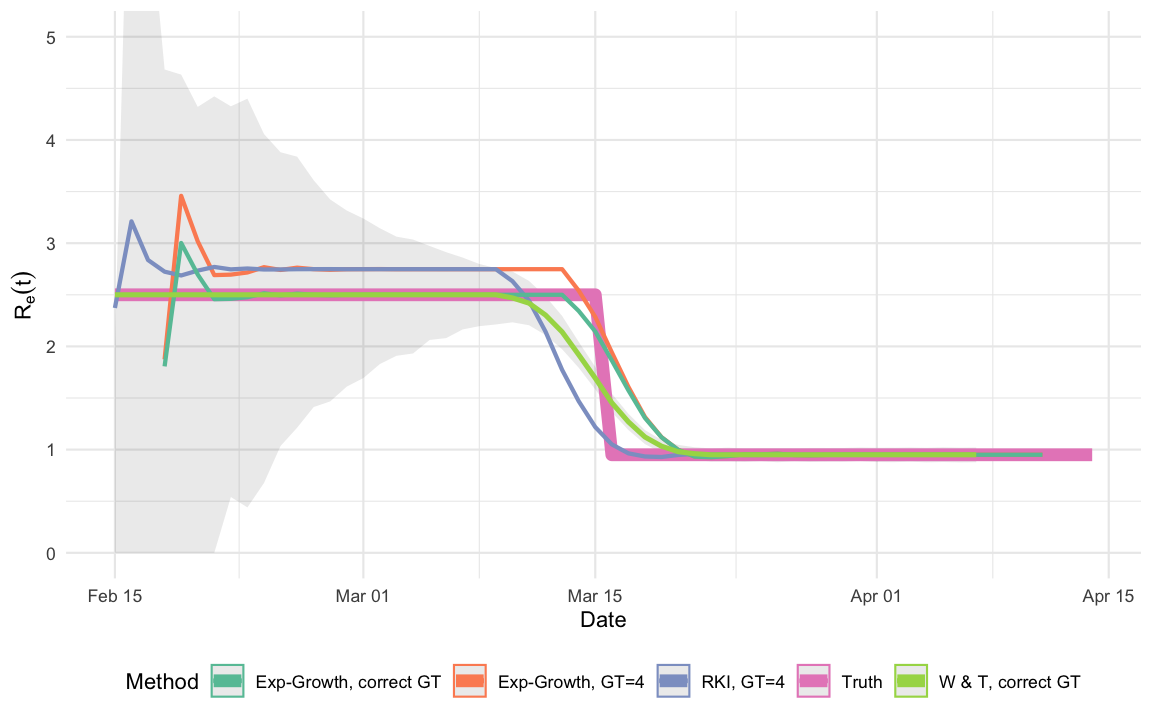
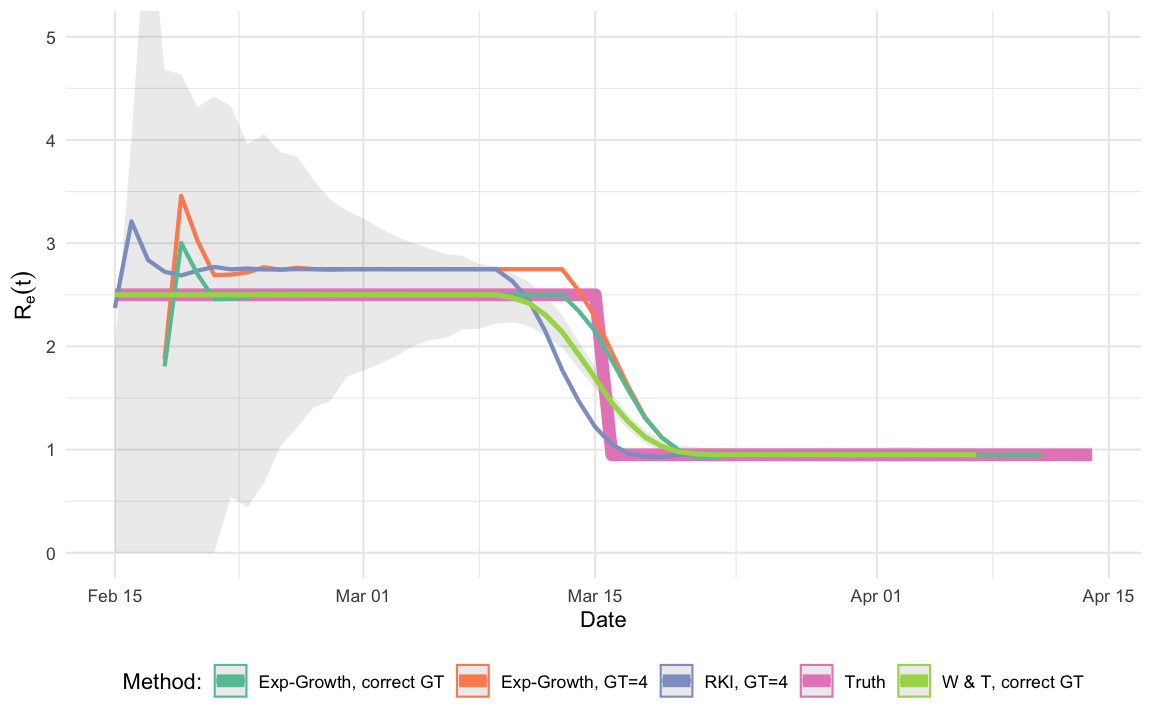
added literature ref to an der heiden & hamouda (2020) as well as cori article. mentioned bootstrapping the Rhat estimates.

Changed region(s): [[0.0938, 0.9167, 0.9375, 0.9778]]

diff --git a/_posts/2020-04-15-effectiveR0.md b/_posts/2020-04-15-effectiveR0.md
@@ -155,7 +155,7 @@ est_rt_exp <- function(ts, GT_obj, half_window_width=3L) {
 
 ## RKI Method
 
-In a recent [report](https://www.rki.de/DE/Content/Infekt/EpidBull/Archiv/2020/Ausgaben/17_20_SARS-CoV2_vorab.pdf?__blob=publicationFile) the RKI described their method for computing $R_e(t)$ as part of the COVID-19 outbreak as follows (p. 13): *For a constant generation time of 4 days, one obtains $R$ as the ratio of new infections in two consecutive time periods each consisting of 4 days*. 
+In a recent [report](https://www.rki.de/DE/Content/Infekt/EpidBull/Archiv/2020/Ausgaben/17_20_SARS-CoV2_vorab.pdf?__blob=publicationFile) [@anderheiden_hamouda2020] the RKI described their method for computing $R_e(t)$ as part of the COVID-19 outbreak as follows (p. 13): *For a constant generation time of 4 days, one obtains $R$ as the ratio of new infections in two consecutive time periods each consisting of 4 days*. 
 Mathematically, this estimation could be formulated as part of a statistical model: 
 $$
 \begin{align*}
@@ -208,8 +208,7 @@ Ret_true <- data.frame(Date=out$Date) %>% mutate(R_hat=Ret(Date), Method="Truth"
 
 
 <img src="{{ site.baseurl }}/figure/source/2020-04-15-effectiveR0/EFFECTIVERPLOT-1.png" style="display: block; margin: auto;" />
-
-To make the graph more specific, we take a look at 3 time points in the beginning of the outbreak
+The shaded area indicates the pointwise confidence intervals of the @wallinga_teunis2004 method. To make the results of the graph more explicit, we take a look at 3 time points in the beginning of the outbreak
 
 
 
@@ -228,15 +227,15 @@ and 3 time points at the end of the outbreak:
 ## 3 2020-04-06              0.95 0.9502230  0.95         0.9501288
 ```
 
-One observes that the RKI method has a bias. To some extent this is not surprising, because both the W & T method as well as the exponential growth model use the correct generation time distribution. In practice this would not be available, only an estimate. A more thorough investigation of the methods would of course also have to investigate the effect of misspecification for the W & T (2004) method or the exponential growth approach. The point is, however, that the RKI method as stated is not able to handle a non-point-mass generation time distribution.
+One observes that the RKI method has a bias. To some extent this is not surprising, because both the W & T method as well as the exponential growth model use the correct generation time distribution. In practice this would not be available, only an estimate. However, one could reflect estimation uncertainty through additional bootstrapping of the two methods. A more thorough investigation of the methods would of course also have to investigate the effect of misspecification for the W & T (2004) method or the exponential growth approach. The point is, however, that the RKI method as stated is not able to handle a non-point-mass generation time distribution.
 
 ## Discussion
 
-In this post we showed how to compute the effective reproduction number in R using both own implementations and the `R0` package. We illustrated this with data from a hypothetical outbreak. An important message is that there is a mathematical relationship between the daily growth factor and the reproduction number - this relationship is governed by the generation time distribution.
+In this post we showed how to compute the effective reproduction number in R using both own implementations and the [`R0`](https://cran.r-project.org/web/packages/R0/index.html) package. We illustrated this with data from a hypothetical outbreak. An important message is that there is a mathematical relationship between the daily growth factor and the reproduction number - this relationship is governed by the generation time distribution.
 
 In the present analysis the RKI method, which basically is identical to the approach of inserting the point mass distribution into the formula of @wallinga_lipsitch2006, showed a bias when the generation time had the anticipated mean, but had a standard deviation larger than zero. The bias is more pronounced when $R_e(t)$ is further away from 1. However, once the lockdown is gradually lifted, $R_e(t)$ is likely to raise again making this potentially a relevant bias. The exponential growth approach using the moment generating function of the (discretized) best estimate of the serial interval distribution, can be realized with any statistics package and is computationally fast. Further algorithmic improvements such as @wallinga_teunis2004 are readily available in R.
 
-A nice site, which computes time varying reproduction rates for many countries in the world is [Temporal variation in transmission during the COVID-19 outbreak](https://epiforecasts.io/covid/) by the LSHTM. It is realized using the  [`EpiEstim`](https://cran.r-project.org/web/packages/EpiEstim/index.html) package, which also provides $R_e(t)$ estimation functions.
+A nice site, which computes time varying reproduction rates for many countries in the world is [Temporal variation in transmission during the COVID-19 outbreak](https://epiforecasts.io/covid/) by the LSHTM. It is realized using the  [`EpiEstim`](https://cran.r-project.org/web/packages/EpiEstim/index.html) package [@cori_etal2013], which also provides $R_e(t)$ estimation functions.
 
  
 
